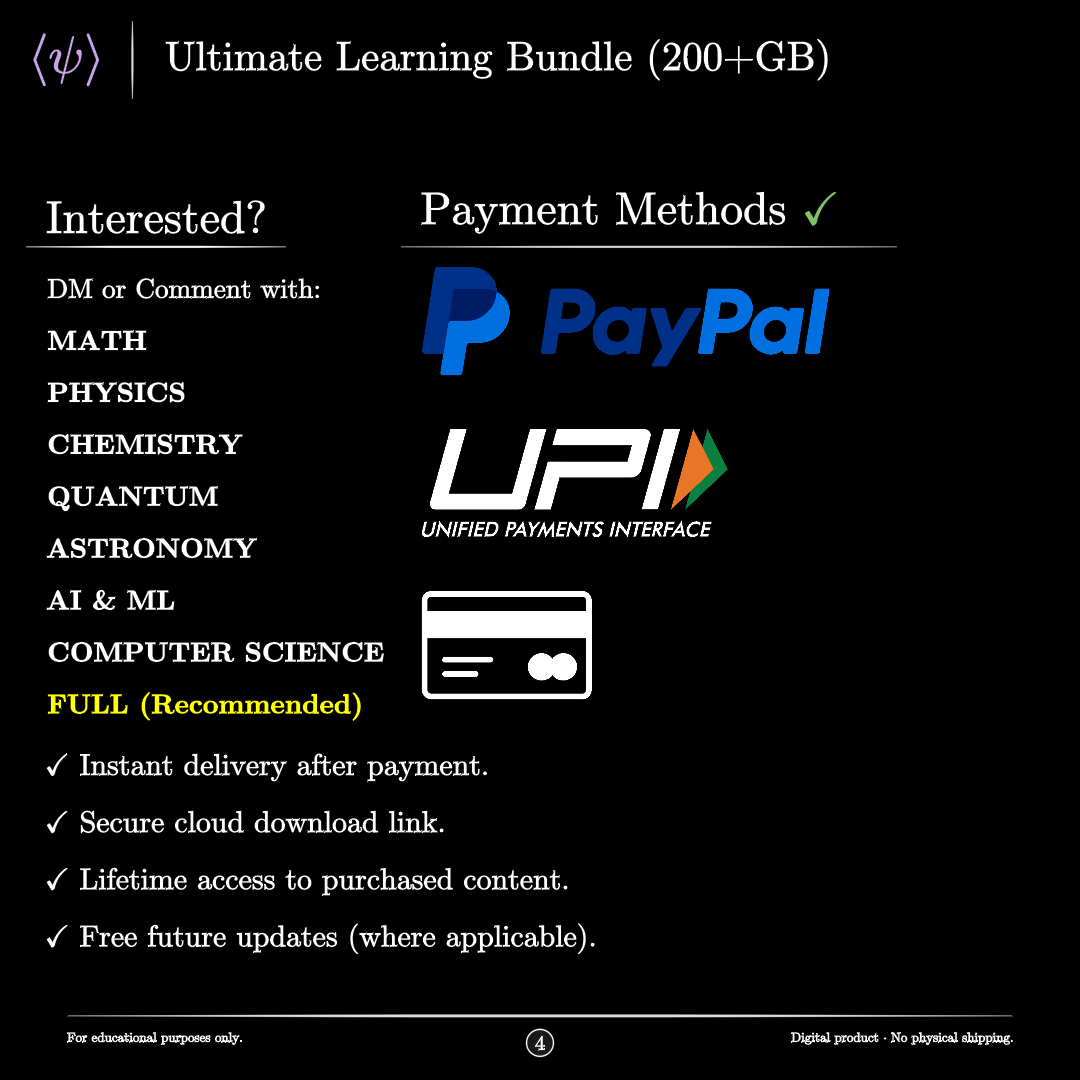
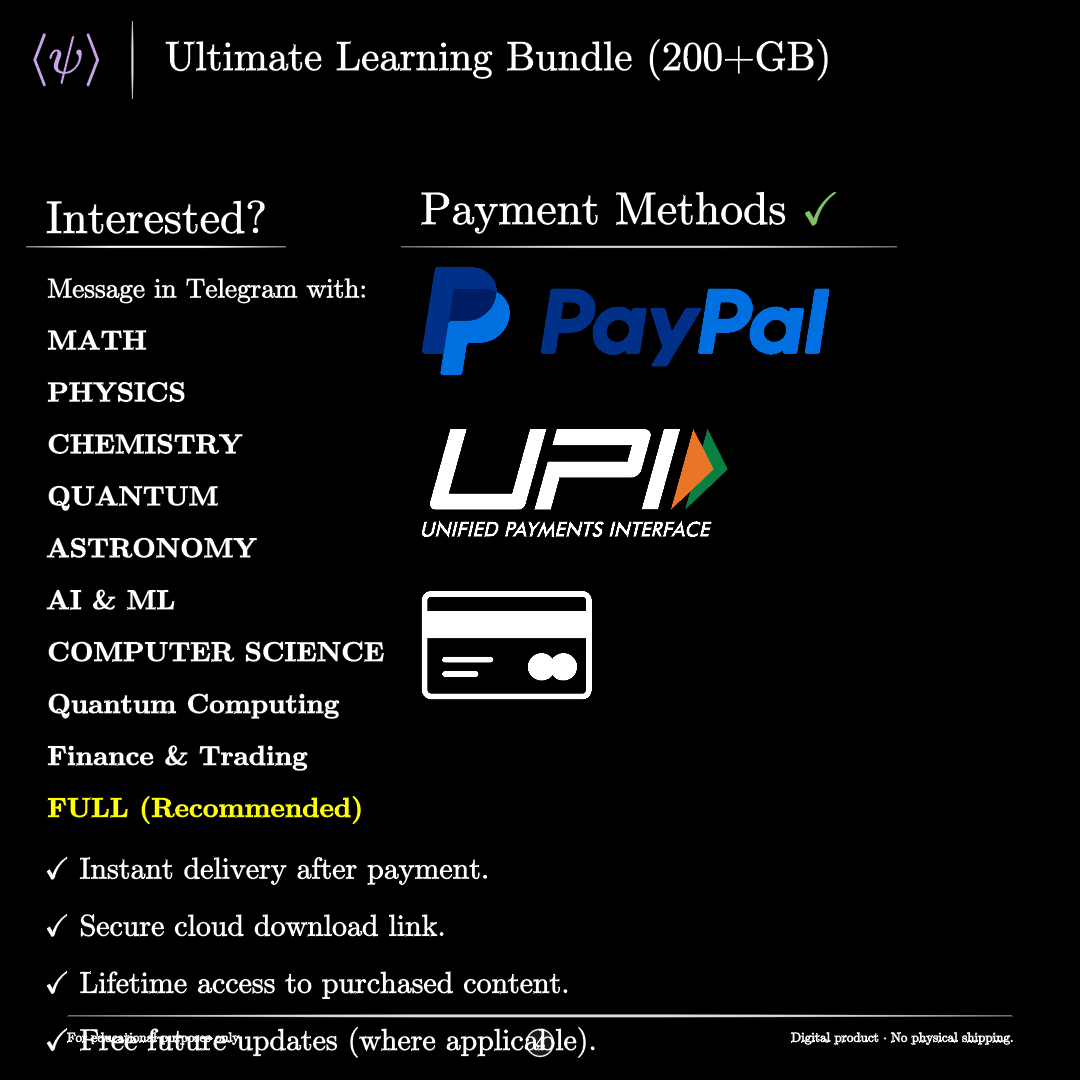
f

diff --git a/test.py b/test.py
@@ -170,7 +170,7 @@ class Payment(PaidTemplate):
 
         body = TexText(
             r"""
-            DM or Comment with:\\[0.25cm]
+            Message in Telegram with:\\[0.25cm]
             \textbf{MATH}\\[0.25cm]
             \textbf{PHYSICS}\\[0.25cm]
             \textbf{CHEMISTRY}\\[0.25cm]
@@ -178,6 +178,8 @@ class Payment(PaidTemplate):
             \textbf{ASTRONOMY}\\[0.25cm]
             \textbf{AI \& ML}\\[0.25cm]
             \textbf{COMPUTER SCIENCE}\\[0.25cm]
+            \textbf{Quantum Computing}\\[0.25cm]
+            \textbf{Finance \& Trading}\\[0.25cm]
             \textbf{FULL (Recommended)}
             """, isolate=['FULL (Recommended)'], alignment=R"\flushleft", font_size=20,
         )
